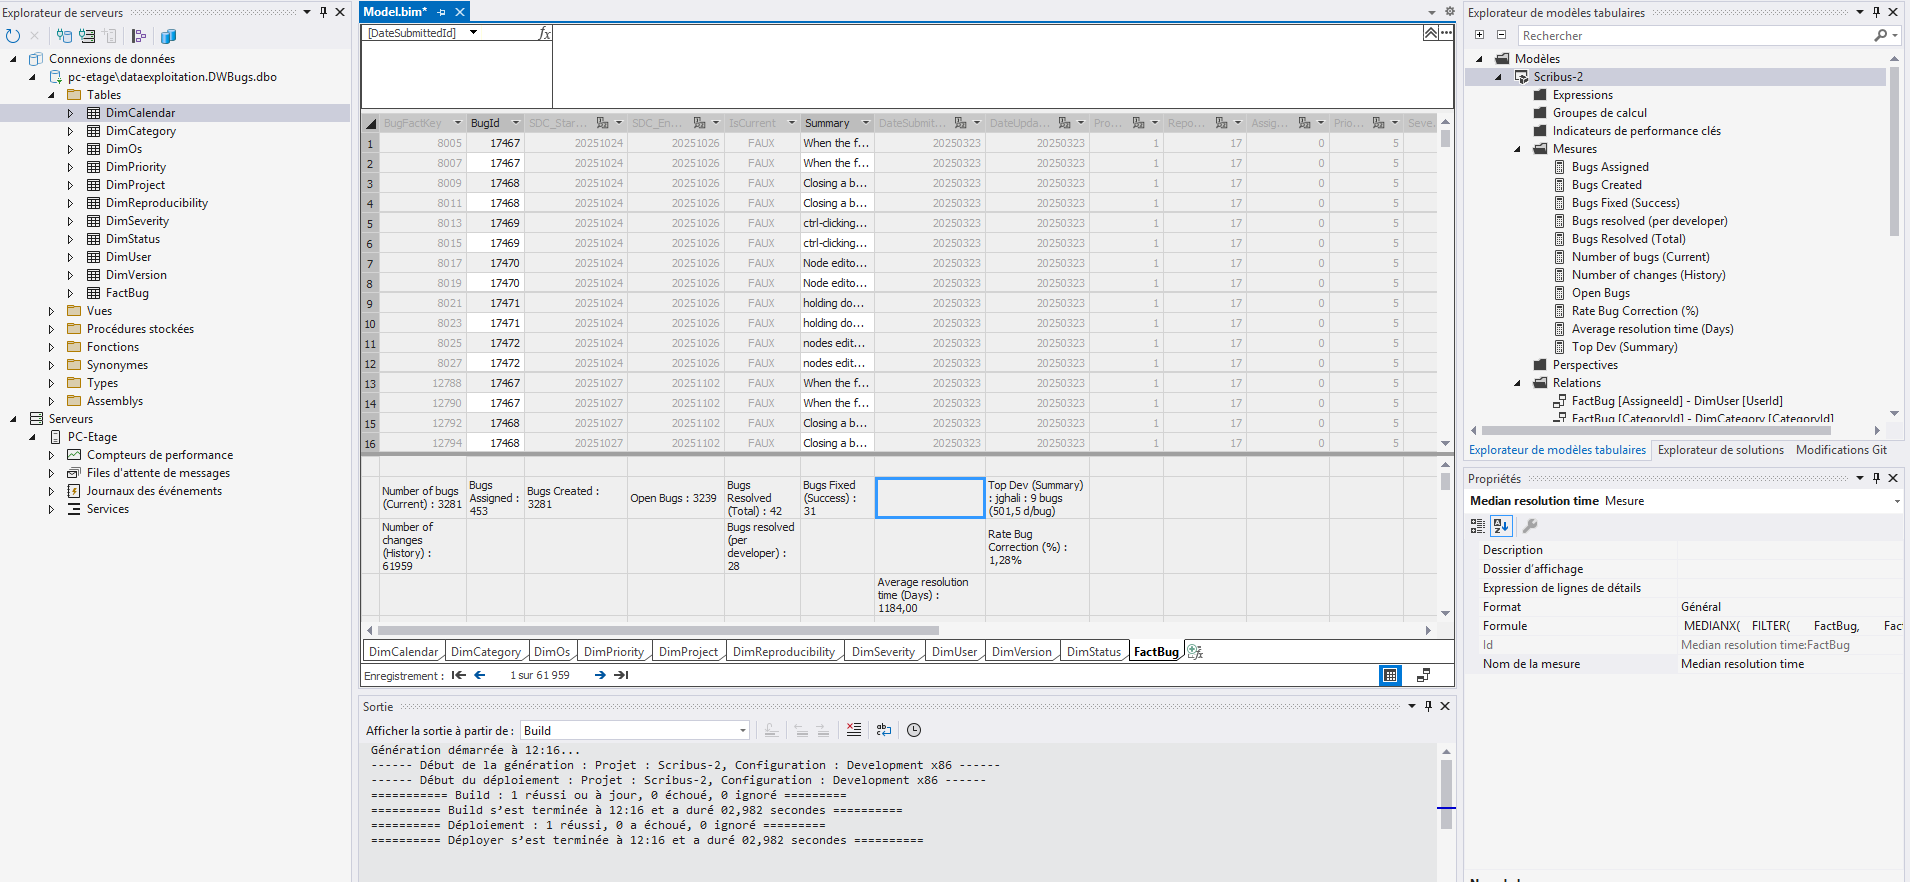
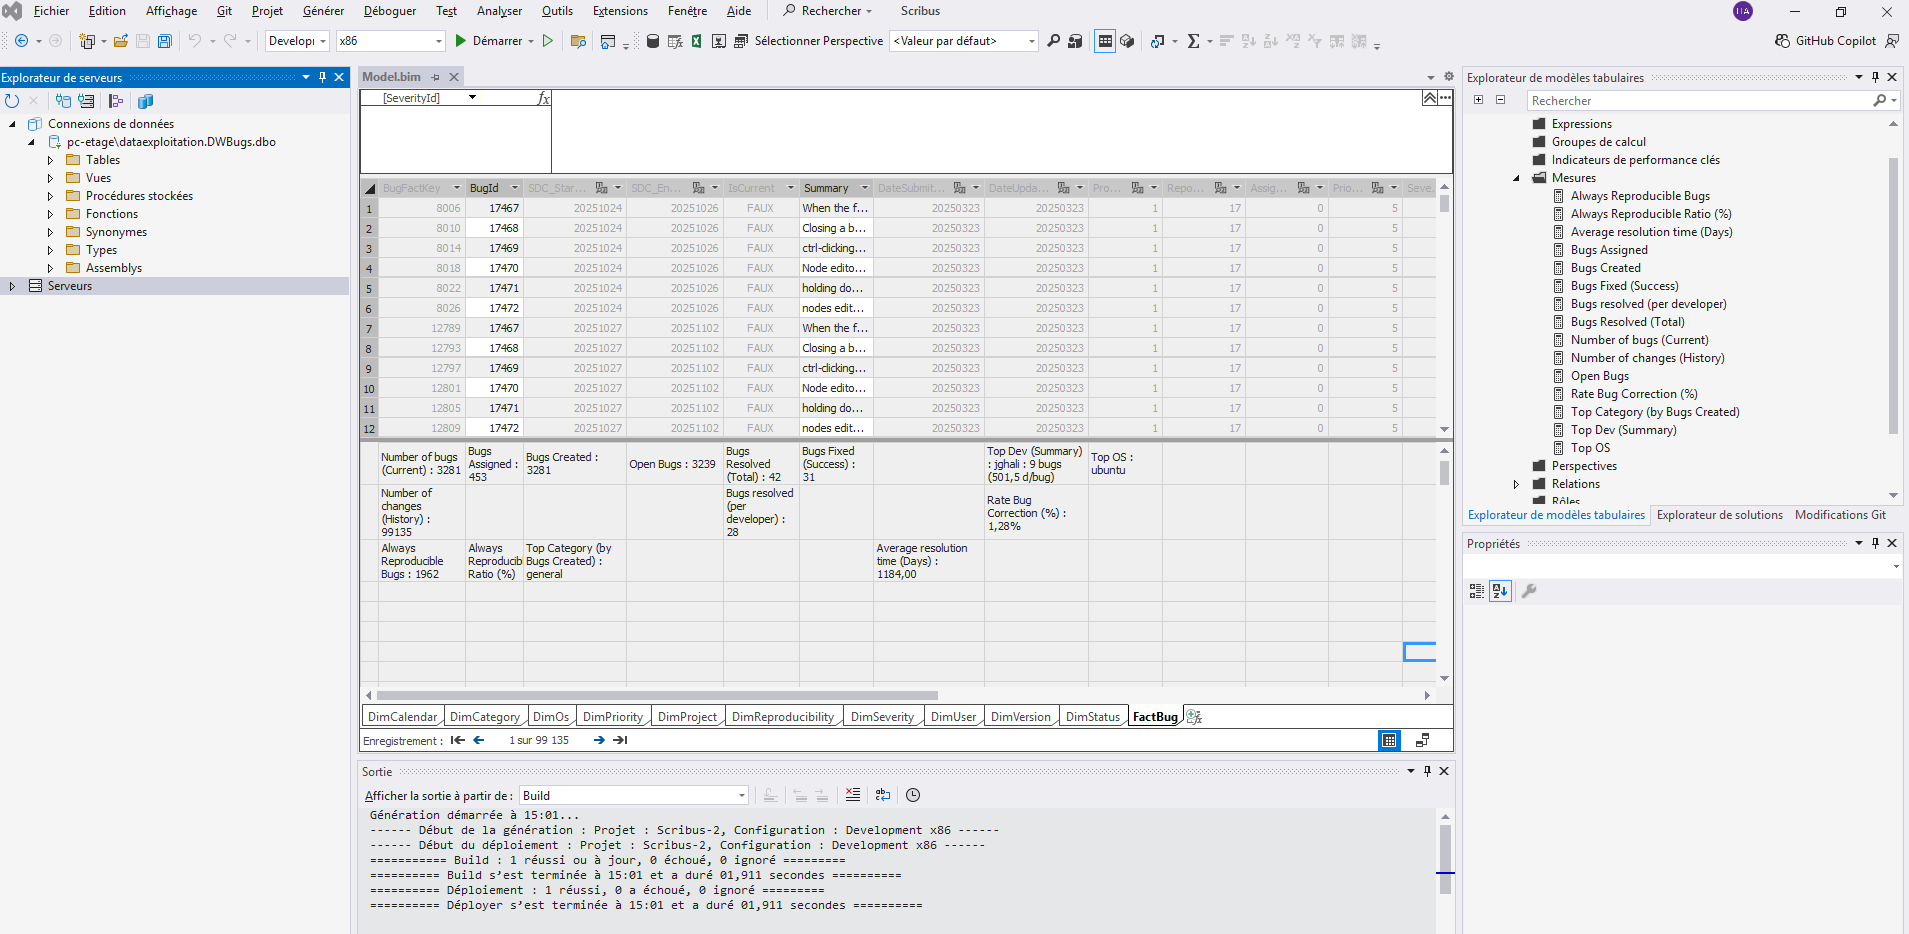
Finish documentation. and modify files

diff --git a/Documentation/Documentation.md b/Documentation/Documentation.md
@@ -434,6 +434,30 @@ DIVIDE(
 )
 ```
 
+```
+Top Category (by Bugs Created):=
+VAR TopCat =
+    TOPN(1, SUMMARIZE(FactBug, DimCategory[CategoryName], "Bugs", [Bugs Created]), [Bugs], DESC)
+RETURN
+CONCATENATEX(TopCat, DimCategory[CategoryName], ", ")
+```
+
+```
+Always Reproducible Ratio (%):=
+DIVIDE(
+[Always Reproducible Bugs],
+[Number of bugs (Current)],
+0)
+```
+
+```
+Always Reproducible Bugs:=
+CALCULATE(
+    DISTINCTCOUNT(FactBug[BugId]),
+    DimReproducibility[ReproducibilityName] = "always"
+)
+```
+
 #### 5.5.2 Deployment of the ETL script
 
 The Python ETL script is automated via a cron job on a VPS server, executed weekly to load new snapshots.
@@ -456,6 +480,10 @@ We can see that all DAX tables and measures are available for analysis:
 
 ![alt Poxer Bi import model](../assets/importBiDirect3.png)
 
+And we can find the model view also :
+
+![alt Power BI model view](../assets/BI-ModelView.png)
+
 ### 6.2 Creating analytical reports
 
 Using DAX measures and model dimensions, we created several reports to analyze data from the Scribus bug tracker.
@@ -474,6 +502,8 @@ Since the data for previous years is not very relevant (no resolutions, no assig
 
 ![alt Version quality report](../assets/BI-ProductQuality.png)
 
+It is very easy to adapt these graphs to analyze other years; it's simply a matter of filters.
+
 - Functional Analysis:
 
 ![alt Version quality report](../assets/BI-FunctionalAnalysis.png)
@@ -481,8 +511,6 @@ Since the data for previous years is not very relevant (no resolutions, no assig
 - Environment & Reproductibility:
 
 ![alt Version quality report](../assets/BI-Environment&Reproductibility.png)
-
-It is very easy to adapt these graphs to analyze other years; it's simply a matter of filters.
 
 ## 7. Conclusion
 
